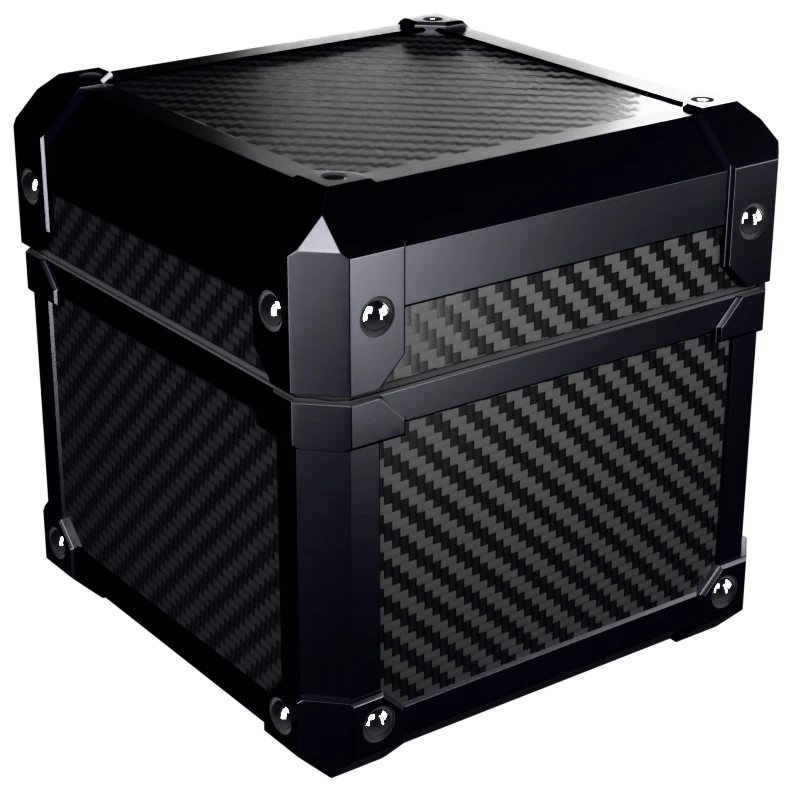
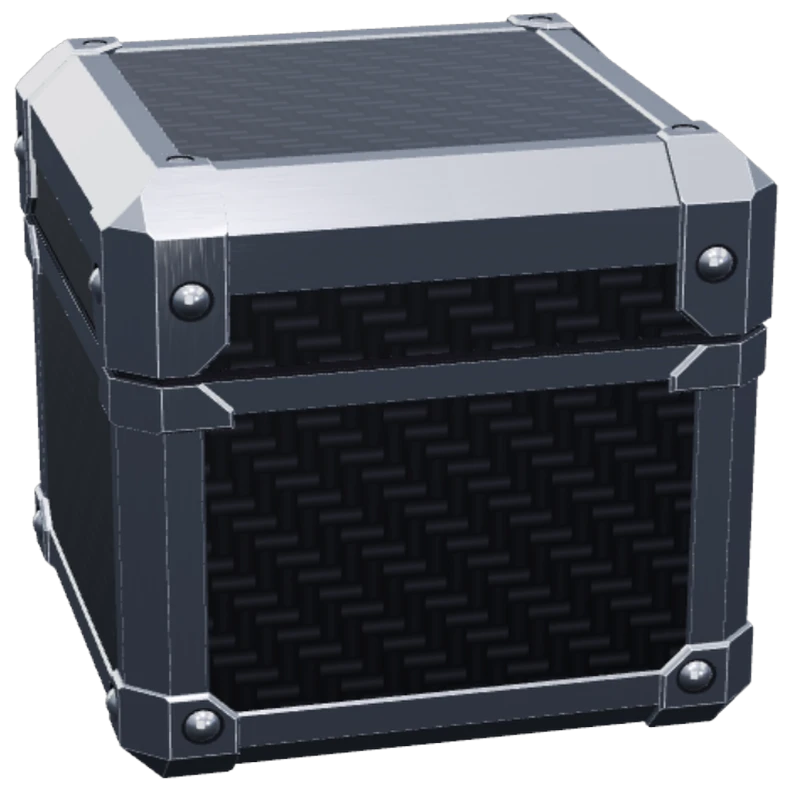
Masterpiece (Black Carbon): silver chrome frame so the black box stands out on the dark background

diff --git a/index.html b/index.html
@@ -2659,8 +2659,7 @@ function cubeMat(skin, name, src){
     AluBlock: M_({color: 0xd4d7dc, metalness: 1, roughness: .3}), BoltSteel: M_({color: 0x9a9da3, metalness: 1, roughness: .18}), BoltChrome: M_({color: 0xe8e9ec, metalness: 1, roughness: .08}),
     InteriorBlack: M_({color: 0x0b0b0d, roughness: .95}), HingeSteel: M_({color: 0xa8abb1, metalness: 1, roughness: .22})};
   let S_ = {};
-  if(skin === 'carbon') S_ = {CarbonPanel: MP({map: T.carbon, metalness: .1, roughness: .4, clearcoat: .8, clearcoatRoughness: .12}), BlackRail: M_({color: 0x1a1a1d, metalness: 1, roughness: .3}),
-    BlackBlock: M_({color: 0x1c1c20, metalness: 1, roughness: .32}), HingeDark: M_({color: 0x45464a, metalness: 1, roughness: .25})};
+  if(skin === 'carbon') S_ = {...chrome(), CarbonPanel: MP({map: T.carbon, metalness: .1, roughness: .4, clearcoat: .8, clearcoatRoughness: .12})};   // silver frame so the black box stands out (Sharon, 2026-11-23)
   if(skin === 'zebra') S_ = {...chrome(), CarbonPanel: M_({map: T.zebra, roughness: .95, envMapIntensity: .55})};
   if(skin === 'zebrafur') S_ = {...chrome(), CarbonPanel: M_({map: T.zebra, color: 0x8a8a8a, roughness: .95})};
   if(skin === 'hearts') S_ = {...chrome(), HeartsPanel: MP({map: src && src.map, color: 0xd8d8d8, roughness: .35, clearcoat: .6, clearcoatRoughness: .1}),
